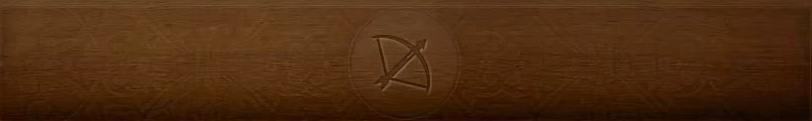
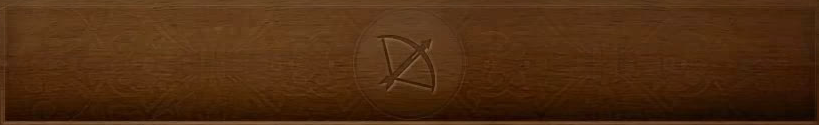
style: Add rest of board images

diff --git a/src/app/play/[room]/components/GameBoard/index.tsx b/src/app/play/[room]/components/GameBoard/index.tsx
@@ -1,8 +1,8 @@
 'use client'
 
 import { Hand } from '@/app/play/[room]/components/GameBoard/components/Hand'
-import { CardsPreview } from '@/components/CardsPreview'
 import { BackgroundMusic } from '@/components/BackgroundMusic'
+import { CardsPreview } from '@/components/CardsPreview'
 import { WeatherEffect } from '@/types/WeatherEffect'
 import { Tables } from '@/types/supabase'
 import { createClientComponentClient } from '@supabase/auth-helpers-nextjs'
@@ -58,39 +58,52 @@ export const GameBoard = ({ user, roomId }: Props) => {
 	if (gameState.players.filter(p => p?.gameStatus === 'select-deck').length >= 1) return null
 
 	return (
-		<div className='grid grow grid-cols-[375px_1fr]'>
-			{host.gameStatus === 'accepted' && <Reroll currentPlayer={host} />}
-			{host.gameStatus === 'play' && opponent.gameStatus === 'accepted' && <WaitForStartBanner />}
+		<main className='relative z-10 flex h-full w-full grow flex-col overflow-hidden bg-black'>
+			<div className='relative mx-auto my-auto grid max-h-[980px] w-full max-w-[1780px] grow grid-cols-[375px_1fr]'>
+				{host.gameStatus === 'accepted' && <Reroll currentPlayer={host} />}
+				{host.gameStatus === 'play' && opponent.gameStatus === 'accepted' && <WaitForStartBanner />}
 
-			<Sidebar
-				host={host}
-				opponent={opponent}
-				turn={gameState.turn}
-				weatherEffects={gameState.weatherEffects?.map(effect => effect.ability as WeatherEffect)}
-			/>
+				<Sidebar
+					host={host}
+					opponent={opponent}
+					turn={gameState.turn}
+					weatherEffects={gameState.weatherEffects?.map(effect => effect.ability as WeatherEffect)}
+				/>
 
-			<div className='relative flex h-full min-w-0 border-l bg-stone-600 pb-12 pl-24'>
-				<div className='flex h-full min-w-0 grow flex-col'>
-					<div className='grid h-full grid-rows-7 gap-y-2 bg-stone-600 pt-2'>
-						<CardsPreview>
-							<Side host={host} opponent={opponent} side='opponent' />
-							<Side host={host} opponent={opponent} side='host' />
-						</CardsPreview>
+				<div className='relative flex h-full min-w-0 bg-black pb-12 pl-28 pt-2 @container'>
+					<div className='z-10 flex h-full min-w-0 grow flex-col'>
+						<div className='relative flex h-full flex-col gap-y-2 pt-2'>
+							<CardsPreview>
+								<Side host={host} opponent={opponent} side='opponent' />
 
-						<Hand player={host} />
+								<div className='pointer-events-none z-0 my-1.5 -ml-8 h-2 w-[calc(100%+2rem)] bg-[url("/game/board/rows_separator.png")] bg-center [background-size:100%_100%]' />
+
+								<Side host={host} opponent={opponent} side='host' />
+							</CardsPreview>
+
+							<Hand player={host} />
+						</div>
 					</div>
-				</div>
 
-				<div className='flex h-full min-w-max flex-col items-center justify-between gap-y-4 border-l bg-stone-800 pl-6 pr-4 pt-8'>
-					<CardPiles player={opponent} side='opponent' />
+					<div className='z-10 flex h-full min-w-max flex-col items-center justify-between gap-y-4 pl-6 pr-4 pt-8'>
+						<CardPiles player={opponent} side='opponent' />
 
-					<div id='card-preview-container' className='relative flex w-full grow items-center justify-center'></div>
+						<div id='card-preview-container' className='relative flex w-full grow items-center justify-center'></div>
 
-					<CardPiles player={host} side='host' />
+						<CardPiles player={host} side='host' />
+					</div>
+
+					<div className='pointer-events-none absolute inset-0 z-0 h-full w-full bg-[url("/game/board/background.png")] bg-cover bg-left' />
 				</div>
 
 				<BackgroundMusic />
+
+				<div className='pointer-events-none absolute left-0 top-0 z-0 h-full w-20 -translate-x-1/2 bg-gradient-to-r from-black from-50% to-black/0' />
+				<div className='pointer-events-none absolute right-0 top-0 z-0 h-full w-20 translate-x-1/2 bg-gradient-to-l from-black from-50% to-black/0' />
+
+				<div className='pointer-events-none absolute top-0 z-0 h-10 w-full -translate-y-1/2 bg-gradient-to-b from-black from-50% to-black/0' />
+				<div className='pointer-events-none absolute bottom-0 z-0 h-10 w-full translate-y-1/2 bg-gradient-to-t from-black from-50% to-black/0' />
 			</div>
-		</div>
+		</main>
 	)
 }

diff --git a/src/app/play/[room]/components/GameBoard/components/Row/index.tsx b/src/app/play/[room]/components/GameBoard/components/Row/index.tsx
@@ -7,7 +7,6 @@ import { CardType } from '@/types/Card'
 import { GamePlayer } from '@/types/Game'
 import { BoardRowTypes } from '@/types/RowType'
 import { ROW_TO_WEATHER_EFFECT, WeatherEffect } from '@/types/WeatherEffect'
-import { ArrowBigUpDash } from 'lucide-react'
 import Image from 'next/image'
 import { CSSProperties } from 'react'
 import { Cards } from './components/Cards'
@@ -265,8 +264,8 @@ export const Row = ({ rowType, side, host, opponent, className, style }: Props) 
 	}
 
 	return (
-		<div className={cn('relative z-10 flex grow items-center', className)} style={style}>
-			<div className='absolute left-0 z-10 flex h-full -translate-x-full items-center'>
+		<div className={cn('relative z-10 flex h-[calc(100%/7)] grow items-center', className)} style={style}>
+			<div className='absolute left-0 z-10 flex h-full translate-x-[calc(-100%+4px)] items-center'>
 				<div
 					className={cn(
 						'z-10 -mr-1.5 flex aspect-square h-12 w-12 translate-x-0.5 items-center justify-center text-black'
@@ -279,22 +278,28 @@ export const Row = ({ rowType, side, host, opponent, className, style }: Props) 
 						style={{ backgroundImage: `url('/game/board/row_score_${side}.png')` }}
 					/>
 				</div>
-				<div className="aspect-[14/121] h-full w-auto bg-[url('/game/board/row_score_deco.png')] bg-cover bg-no-repeat" />
+				<div className="aspect-[18/124] h-full w-auto bg-[url('/game/board/row_score_deco.png')] bg-cover bg-no-repeat" />
 			</div>
 			<button
 				className={cn(
-					'relative mr-2 flex aspect-square h-full w-auto cursor-auto items-center justify-center bg-cover bg-center duration-100',
+					'relative z-0 mr-px aspect-square h-full w-auto cursor-auto duration-100',
 					canPlayEffect && 'cursor-pointer ring-4 ring-inset ring-yellow-600/50 hover:ring-yellow-600'
 				)}
-				style={{ backgroundImage: `url("/game/board/row_effect/${side}_${rowType}.png")` }}
 				onClick={() => {
 					handleEffectAdd()
 				}}>
-				{row.effect && <Card card={row.effect} mode='game' row={row} />}
+				<div className='flex aspect-square h-full w-auto items-center justify-center'>
+					{row.effect && <Card card={row.effect} mode='game' row={row} />}
+				</div>
+
+				<div
+					style={{ backgroundImage: `url("/game/board/row_effect/${side}_${rowType}.png")` }}
+					className='absolute inset-0 -z-10 h-full w-full bg-cover bg-center'
+				/>
 			</button>
 			<button
 				className={cn(
-					'group relative h-full w-full grow cursor-auto bg-cover bg-center bg-no-repeat ring-4 ring-inset ring-transparent duration-100',
+					'group relative h-full w-full grow cursor-auto bg-center bg-no-repeat ring-4 ring-inset ring-transparent duration-100 [background-size:100%_100%]',
 					(canAddToRow || !cardToAdd) &&
 						'after:absolute after:inset-0 after:bg-yellow-600/15 after:opacity-0 after:duration-100 hover:ring-yellow-600/75 hover:after:opacity-100',
 					canAddToRow && 'cursor-pointer after:opacity-100'

diff --git a/src/app/play/[room]/components/DeckSelector/index.tsx b/src/app/play/[room]/components/DeckSelector/index.tsx
@@ -40,36 +40,38 @@ export const DeckSelector = ({ cards, searchParams, user }: Props) => {
 	const collectionCardTypeParam = getFirstParamValue(searchParams.collection_card_type, cardTypesOptions[0].value)!
 
 	return (
-		<div className='mx-auto grid max-w-screen-2xl px-12 py-8'>
-			<div className='mx-auto mb-4 flex items-center justify-center'>
-				<Suspense>
-					<FactionSwitch />
-				</Suspense>
-			</div>
-
-			<div className='mb-4 flex items-center justify-between'>
-				<div>
-					<h3 className='text-2xl'>Card Collection</h3>
-					<h4 className='text-lg uppercase'>
-						{cardTypesOptions.find(c => c.value === collectionCardTypeParam)?.label}
-					</h4>
+		<main className='relative z-10 mx-auto my-auto flex h-full max-h-[980px] w-full max-w-[1740px] grow flex-col bg-background'>
+			<div className='mx-auto grid max-w-screen-2xl px-12 py-8'>
+				<div className='mx-auto mb-4 flex items-center justify-center'>
+					<Suspense>
+						<FactionSwitch />
+					</Suspense>
 				</div>
 
-				<p className='text-muted-foreground'>Draw a card from your deck whenever you win a round.</p>
+				<div className='mb-4 flex items-center justify-between'>
+					<div>
+						<h3 className='text-2xl'>Card Collection</h3>
+						<h4 className='text-lg uppercase'>
+							{cardTypesOptions.find(c => c.value === collectionCardTypeParam)?.label}
+						</h4>
+					</div>
 
-				<div className='text-end'>
-					<h3 className='text-2xl'>Cards in Deck</h3>
-					<h4 className='text-lg uppercase'>{cardTypesOptions.find(c => c.value === inDeckCardTypeParam)?.label}</h4>
+					<p className='text-muted-foreground'>Draw a card from your deck whenever you win a round.</p>
+
+					<div className='text-end'>
+						<h3 className='text-2xl'>Cards in Deck</h3>
+						<h4 className='text-lg uppercase'>{cardTypesOptions.find(c => c.value === inDeckCardTypeParam)?.label}</h4>
+					</div>
 				</div>
-			</div>
 
-			<ClientDeckSelector
-				cards={cards}
-				user={user}
-				currentFaction={currentFaction}
-				collectionCardTypeParam={collectionCardTypeParam}
-				inDeckCardTypeParam={inDeckCardTypeParam}
-			/>
-		</div>
+				<ClientDeckSelector
+					cards={cards}
+					user={user}
+					currentFaction={currentFaction}
+					collectionCardTypeParam={collectionCardTypeParam}
+					inDeckCardTypeParam={inDeckCardTypeParam}
+				/>
+			</div>
+		</main>
 	)
 }

diff --git a/src/app/play/[room]/components/GameBoard/components/CardPiles/components/DiscardPile.tsx b/src/app/play/[room]/components/GameBoard/components/CardPiles/components/DiscardPile.tsx
@@ -1,5 +1,6 @@
 import { Card } from '@/components/Card'
 import { CardsPreview, CardsPreviewTrigger } from '@/components/CardsPreview'
+import { cn } from '@/lib/utils'
 import { GamePlayer } from '@/types/Game'
 
 type Props = Pick<GamePlayer, 'discardPile'> & { side: 'host' | 'opponent' }
@@ -8,7 +9,7 @@ export const DiscardPile = ({ discardPile: _discardPile, side }: Props) => {
 	const discardPile = _discardPile.toReversed()
 
 	return (
-		<div className='relative flex aspect-[45/60] h-[8.5rem] items-center justify-center bg-stone-900 p-2'>
+		<div className='relative flex aspect-[45/60] w-[6.5rem] items-center justify-center p-2 @6xl:h-[8.5rem] @6xl:w-auto'>
 			<div className='relative z-10 h-full w-full'>
 				{discardPile.length > 0 && (
 					<CardsPreview cards={discardPile}>
@@ -29,7 +30,12 @@ export const DiscardPile = ({ discardPile: _discardPile, side }: Props) => {
 
 			<div
 				style={{ backgroundImage: `url('/game/board/discard_pile_icon.png')` }}
-				className='absolute -right-0.5 top-1/2 aspect-[51/44] h-[25%] w-auto -translate-y-1/2 translate-x-full bg-contain bg-no-repeat'
+				className={cn(
+					'absolute left-1/2 aspect-[51/44] h-[25%] w-auto -translate-x-1/2 bg-contain bg-no-repeat @6xl:-right-0.5 @6xl:left-auto @6xl:top-1/2 @6xl:-translate-y-1/2 @6xl:translate-x-full @6xl:rotate-0',
+					side === 'host'
+						? 'top-0 -mt-1 -translate-y-full -rotate-90 scale-y-[-1] @6xl:mt-0 @6xl:scale-y-100'
+						: 'bottom-0 -mb-1 translate-y-full rotate-90 @6xl:mb-0'
+				)}
 			/>
 
 			<div

diff --git a/src/app/play/[room]/components/GameBoard/components/Sidebar/components/PlayerStats.tsx b/src/app/play/[room]/components/GameBoard/components/Sidebar/components/PlayerStats.tsx
@@ -157,7 +157,7 @@ export const PlayerStats = ({ player, opponent, side, turn, weatherEffects }: Pr
 					)}
 				</div>
 
-				<div className='absolute inset-0 -z-10 h-full w-full bg-black/25' />
+				<div className='absolute inset-0 -z-10 h-full w-full bg-black/50' />
 				{turn === player.id && (
 					<div className='absolute inset-0 -z-20 flex items-center justify-center [clip-path:polygon(0%_0%,_0%_100%,_0%_100%,_0%_-100%,_100%_0%,_100%_200%,_0%_200%,_0%_100%,_100%_100%,_100%_0%)]'>
 						<div className='h-[calc(100%+0.25rem)] w-full bg-gradient-to-r from-orange-300 to-orange-300/20 blur-[2px]' />
@@ -166,7 +166,7 @@ export const PlayerStats = ({ player, opponent, side, turn, weatherEffects }: Pr
 			</div>
 
 			<div
-				className='relative ml-12 flex aspect-[45/60] w-28 items-center justify-center bg-stone-900 bg-no-repeat shadow-[8px_8px_6px_#00000070] [background-size:100%_100%]'
+				className='relative ml-12 flex aspect-[45/60] w-28 items-center justify-center bg-no-repeat shadow-[8px_8px_6px_#00000070] [background-size:100%_100%]'
 				style={{ backgroundImage: `url('/game/board/leader_slot.png')` }}>
 				<div
 					style={{ backgroundImage: `url('/game/board/leader_ability.png')` }}

diff --git a/src/app/play/[room]/page.tsx b/src/app/play/[room]/page.tsx
@@ -96,19 +96,17 @@ const RoomPage = async ({ params: { room }, searchParams }: Props) => {
 	const cards = cardsJson.cards as Card[]
 
 	return (
-		<main className='relative z-10 mx-auto my-auto flex h-full max-h-[980px] w-full max-w-[1740px] grow flex-col bg-background'>
-			<NoticeProvider>
-				<GameContextProvider roomId={room} userId={user.id}>
-					<Suspense>
-						<DeckSelector searchParams={searchParams} cards={cards} user={user} />
-					</Suspense>
+		<NoticeProvider>
+			<GameContextProvider roomId={room} userId={user.id}>
+				<Suspense>
+					<DeckSelector searchParams={searchParams} cards={cards} user={user} />
+				</Suspense>
 
-					<GameBoard user={user} roomId={room} />
+				<GameBoard user={user} roomId={room} />
 
-					{user.role === 'ADMIN' && <GameControls roomId={room} />}
-				</GameContextProvider>
-			</NoticeProvider>
-		</main>
+				{user.role === 'ADMIN' && <GameControls roomId={room} />}
+			</GameContextProvider>
+		</NoticeProvider>
 	)
 }
 

diff --git a/src/app/play/[room]/components/GameBoard/components/CardPiles/index.tsx b/src/app/play/[room]/components/GameBoard/components/CardPiles/index.tsx
@@ -1,3 +1,4 @@
+import { cn } from '@/lib/utils'
 import { GamePlayer } from '@/types/Game'
 import { Deck } from './components/Deck'
 import { DiscardPile } from './components/DiscardPile'
@@ -9,7 +10,11 @@ type Props = {
 
 export const CardPiles = ({ player, side }: Props) => {
 	return (
-		<div className='flex items-center justify-between gap-14 pr-6'>
+		<div
+			className={cn(
+				'flex items-center justify-between gap-6 @6xl:gap-14 pr-6 @6xl:flex-row',
+				side === 'host' ? 'flex-col' : 'flex-col-reverse'
+			)}>
 			<DiscardPile discardPile={player.discardPile} side={side} />
 			<Deck deck={player.deck} side={side} faction={player.faction} />
 		</div>

diff --git a/src/components/CardsPreview.tsx b/src/components/CardsPreview.tsx
@@ -239,7 +239,7 @@ export const CardsPreview = forwardRef<HTMLDivElement, React.HTMLAttributes<HTML
 											})
 										]}
 										className='w-full'>
-										<CarouselContent>
+										<CarouselContent className='py-4'>
 											{[...nullEntries, ...items, ...nullEntries].map((card, i) => (
 												<CarouselItem
 													key={i}
@@ -323,7 +323,14 @@ export const CardsPreviewTrigger = forwardRef<
 				{...props}
 				onContextMenu={e => {
 					e.preventDefault()
-					openPreview()
+					openPreview({
+						index,
+						cards,
+						onCardSelect,
+						onClose,
+						slidesToShow,
+						tweenFactor
+					})
 				}}
 			/>
 		)

diff --git a/src/app/play/[room]/components/GameBoard/components/CardPiles/components/Deck.tsx b/src/app/play/[room]/components/GameBoard/components/CardPiles/components/Deck.tsx
@@ -10,7 +10,7 @@ export const Deck = ({ deck, side, faction }: Props) => {
 	const factionDeckImage = FACTIONS.find(f => f.slug === faction)?.images?.deckBack
 
 	return (
-		<div className='relative z-0 flex aspect-[2/3] h-[8.5rem] w-auto items-center justify-center'>
+		<div className='relative z-0 flex aspect-[2/3] w-24 items-center justify-center @6xl:h-[8.5rem] @6xl:w-auto'>
 			<div className='pointer-events-none relative h-full w-full select-none'>
 				{factionDeckImage && deck.length > 0 && (
 					<Image

diff --git a/src/app/play/[room]/components/GameBoard/components/Sidebar/components/WeatherCardSlots.tsx b/src/app/play/[room]/components/GameBoard/components/Sidebar/components/WeatherCardSlots.tsx
@@ -69,7 +69,7 @@ export const WeatherCardSlots = ({ host, opponent }: Props) => {
 
 	return (
 		<div
-			className='relative w-full bg-stone-700 bg-no-repeat px-3 py-4 [background-size:100%_100%]'
+			className='relative w-full bg-no-repeat px-3 py-4 shadow-[4px_8px_6px_#00000070,-2px_-2px_12px_#00000050] [background-size:100%_100%]'
 			style={{ backgroundImage: `url('/game/board/weather_slots.png')` }}>
 			<button
 				className={cn(

diff --git a/src/app/play/[room]/components/GameBoard/components/Hand/index.tsx b/src/app/play/[room]/components/GameBoard/components/Hand/index.tsx
@@ -98,7 +98,7 @@ export const Hand = ({ player }: Props) => {
 	}, [selectedCard])
 
 	return (
-		<div ref={containerRef} className='relative z-20 order-last h-full w-full overflow-x-clip border bg-stone-700 py-1'>
+		<div ref={containerRef} className='relative z-20 order-last h-[calc(100%/7)] w-full overflow-x-clip py-1'>
 			<CardsPreview
 				cards={cards}
 				onCardSelect={card => {

diff --git a/src/components/Card/index.tsx b/src/components/Card/index.tsx
@@ -82,7 +82,7 @@ export const Card = ({
 							cardScore && cardScore < card.strength && 'text-red-800'
 						)}>
 						<div className='flex h-1/2 w-1/2 items-center justify-center'>
-							<svg viewBox='0 0 35 35' className='h-full w-full'>
+							<svg viewBox='0 0 36 36' className='h-full w-full'>
 								<text
 									x='50%'
 									y='50%'
